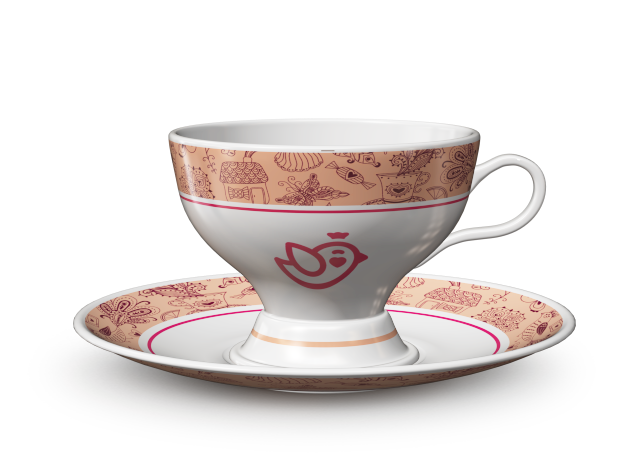
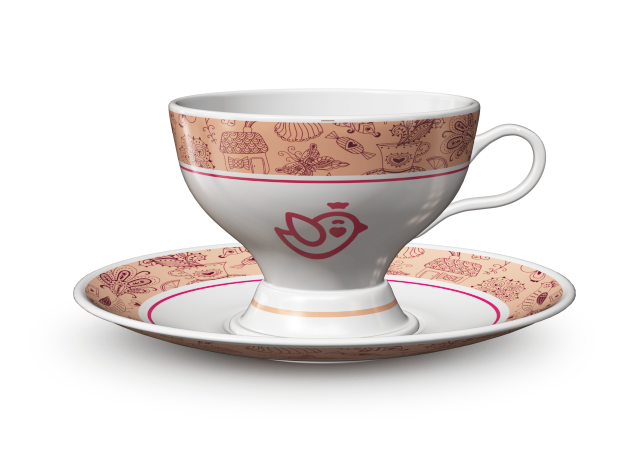
#slide 1 -  scrollme  #optmization

diff --git a/css/common.css b/css/common.css
@@ -195,7 +195,7 @@ section.page {
 }
 .page1 .wrapper .section-1-bg-11 {
   position: absolute;
-  bottom: 0;
+  bottom: 125px;
   right: 0;
   width: 436px;
   height: 486px;
@@ -203,7 +203,7 @@ section.page {
 }
 .page1 .wrapper .section-1-bg-12 {
   position: absolute;
-  bottom: 0;
+  bottom: 65px;
   left: 0;
   width: 620px;
   height: 251px;
@@ -247,7 +247,7 @@ section.page {
 }
 .page1 .wrapper .section-1-bg-2 {
   position: absolute;
-  bottom: 0;
+  bottom: 15px;
   left: 0;
   width: 367px;
   height: 181px;
@@ -256,12 +256,18 @@ section.page {
 }
 .page1 .wrapper .section-1-bg-3 {
   position: absolute;
-  bottom: 0;
+  bottom: 15px;
   right: 0;
   width: 409px;
   height: 285px;
   opacity: 0;
   background: url(../img/bg/bgl14.png) no-repeat 100% 100%;
+}
+
+#scroll_me {
+  position: absolute;
+  bottom: 20px;
+  left: 50%;
 }
 
 .page2 {
@@ -1092,7 +1098,7 @@ section.page {
 
 #cup {
   position: absolute;
-  bottom: 0;
+  bottom: 30px;
   left: 50%;
   width: 630px;
   height: 460px;

diff --git a/sass/pages/_page1.scss b/sass/pages/_page1.scss
@@ -21,7 +21,7 @@
 
 		.section-1-bg-11 {
 			position: absolute;
- 			bottom: 0;
+ 			bottom: 125px;
 			right: 0;
 			width: 436px;
 			height: 486px;
@@ -30,7 +30,7 @@
 
 		.section-1-bg-12 {
 			position: absolute;
-			bottom: 0;
+			bottom: 65px;
 			left: 0;
 			width: 620px;
 			height: 251px;
@@ -88,7 +88,7 @@
 		//sliding images
 		.section-1-bg-2 {
 			position: absolute;
-			bottom: 0;
+			bottom: 15px;
 			left: 0;
 			width: 367px;
 			height: 181px;
@@ -97,7 +97,7 @@
 		}
 		.section-1-bg-3 {
 			position: absolute;
-			bottom: 0;
+			bottom: 15px;
 			right: 0;
 			width: 409px;
 			height: 285px;
@@ -107,4 +107,12 @@
 	}
 
 
+
+
+}
+
+#scroll_me {
+	position: absolute;
+	bottom: 20px;
+	left: 50%;
 }

diff --git a/index.html b/index.html
@@ -101,6 +101,8 @@
 						<h3 class="font3">кондитерская фабрика</h3>
 						<h3 class="font4">кондитерская фабрика</h3>
 					</div>
+
+					<img src="img/scroll.gif" id="scroll_me"/>
 				</div>
 			</section>
 			<section id="section-2" class="page page2">

diff --git a/sass/_sprites-generator.scss b/sass/_sprites-generator.scss
@@ -17,7 +17,7 @@ $iconurl: sprite-url($icons);
 #cup {
 
 	position: absolute;
-	bottom: 0;
+	bottom: 30px;
 	left: 50%;
 	width: 630px;
 	height: 460px;
